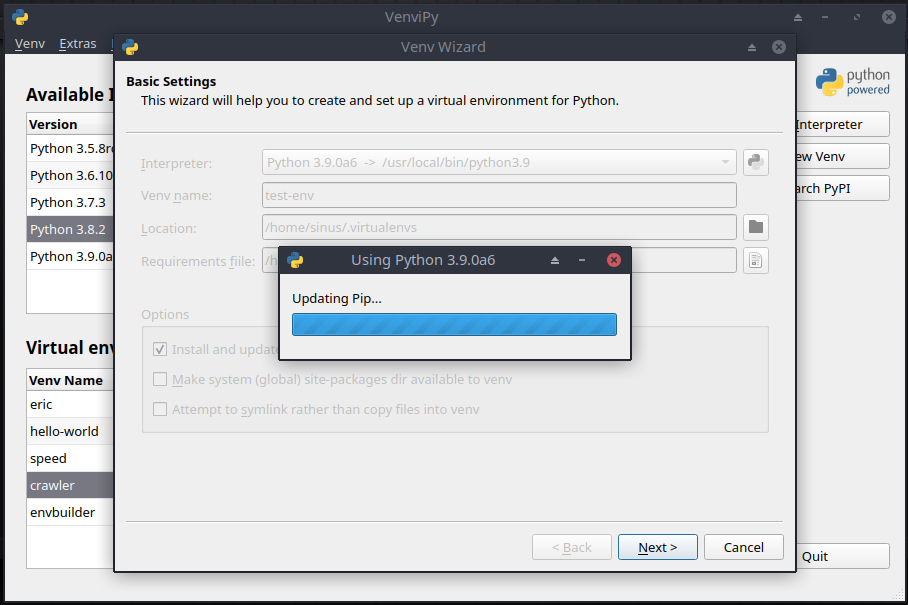
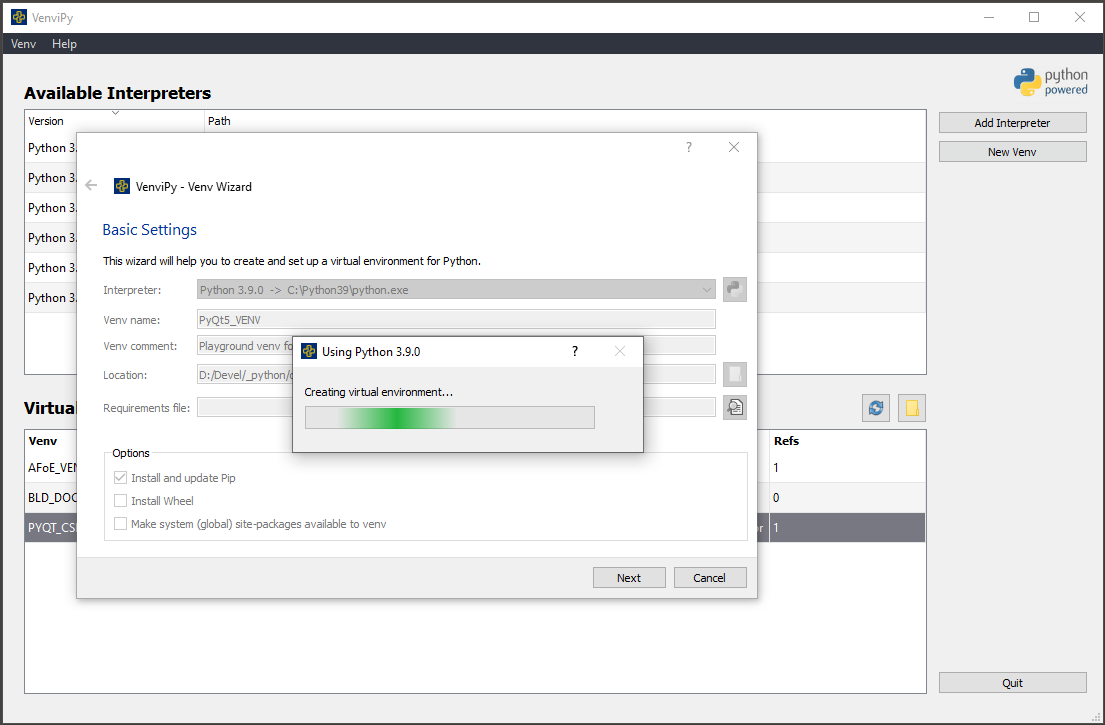
Added a References Column to the Venv Table, updated graphics in README, bumped version

Changed region(s): [[0.0, 0.0, 1.0, 1.0], [0.7709, 0.5355, 0.8326, 0.595]]

diff --git a/venvipy/venvi.py b/venvipy/venvi.py
@@ -319,7 +319,7 @@ class MainWindow(QMainWindow):
         # set table view model
         self.model_venv_table = QStandardItemModel(0, 3, centralwidget)
         self.model_venv_table.setHorizontalHeaderLabels(
-            ["Venv", "Version", "Packages", "installed", "Comment"]
+            ["Venv", "Version", "Packages", "installed", "Comment", "Refs"]
         )
         self.venv_table.setModel(self.model_venv_table)
 
@@ -328,8 +328,8 @@ class MainWindow(QMainWindow):
         self.venv_table.setColumnWidth(1, 120)
         self.venv_table.setColumnWidth(2, 100)
         self.venv_table.setColumnWidth(3, 80)
-        self.venv_table.setColumnWidth(4, 180)
-
+        self.venv_table.setColumnWidth(4, 220)
+        self.venv_table.setColumnWidth(5, 40)
 
         # add widgets to layout
         v_layout_1.addWidget(interpreter_table_label)
@@ -600,7 +600,8 @@ class MainWindow(QMainWindow):
                     info.venv_version,
                     info.site_packages,
                     info.is_installed,
-                    info.comment
+                    info.comment,
+                    info.refs
             )):
                 self.model_venv_table.setItem(0, i, QStandardItem(text))
 

diff --git a/venvipy/get_data.py b/venvipy/get_data.py
@@ -12,7 +12,7 @@ from dataclasses import dataclass
 
 from venvi_cfg import VenvConfigMgr
 
-__version__ = "0.3.4"
+__version__ = "0.3.5"
 
 CFG_DIR = os.path.expanduser("~/.venvipy")
 DB_FILE = os.path.expanduser("~/.venvipy/py-installs")
@@ -230,6 +230,7 @@ class VenvInfo:
     site_packages: str
     is_installed: str
     comment: str
+    refs: int
 
 
 def get_venvs(path):
@@ -262,9 +263,10 @@ def get_venvs(path):
         vcf = VenvConfigMgr(path, venv)
         vcf.read()
         comment = vcf.vc.comment
+        refs = str(len(vcf.vc.projects))
 
         venv_info = VenvInfo(
-            venv_name, venv_version, site_packages, is_installed, comment
+            venv_name, venv_version, site_packages, is_installed, comment, refs
         )
         venv_info_list.append(venv_info)
 

diff --git a/README.rst b/README.rst
@@ -1,4 +1,4 @@
-.. image:: https://raw.githubusercontent.com/sinusphi/venvipy/main/img/cover_slim.png
+.. image:: https://raw.githubusercontent.com/eruber/venvipy/main/img/cover_slim_win_logo.png
 
 **A GUI for managing multiple Python virtual environments**
 
@@ -84,6 +84,7 @@ Key Features of This Fork
    venv access scripts.
 *  Menu control of logging level
 *  Can bootstrap a pip installation into a venv that does not have pip installed using curl.
+*  Refs Column in Venv Table displays how many projects references a particular venv
 
 
 Prerequisites
